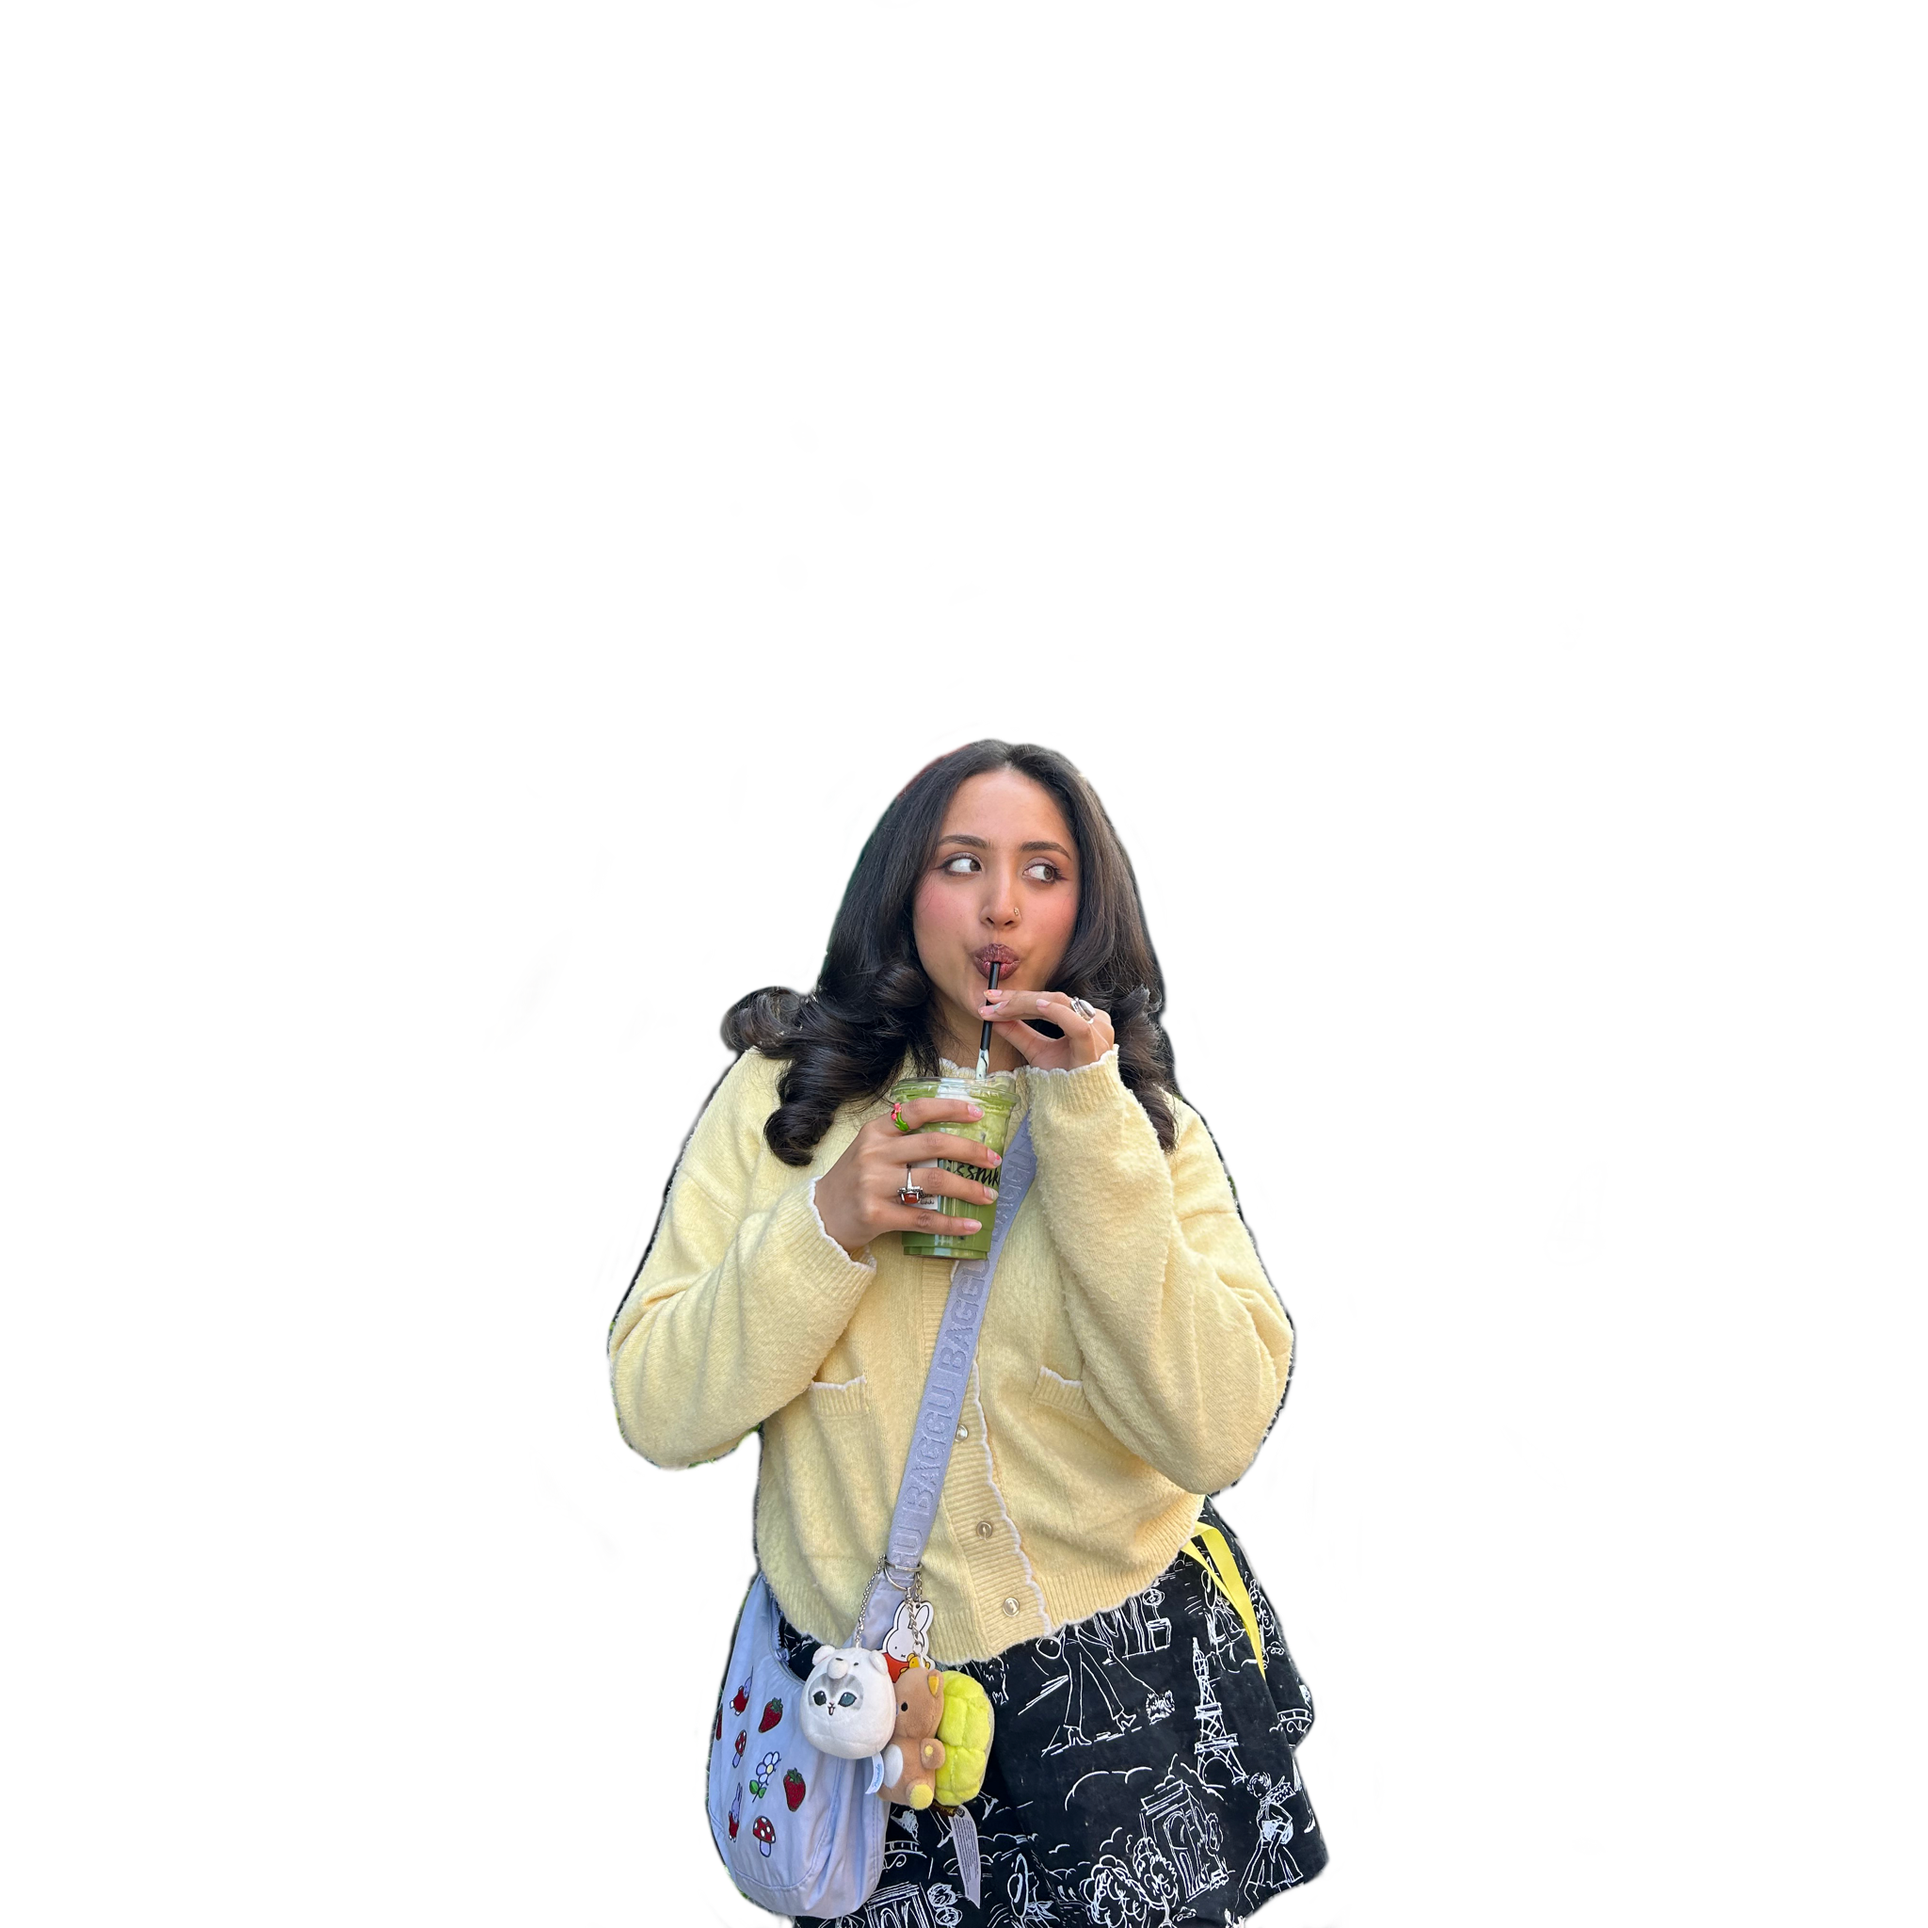
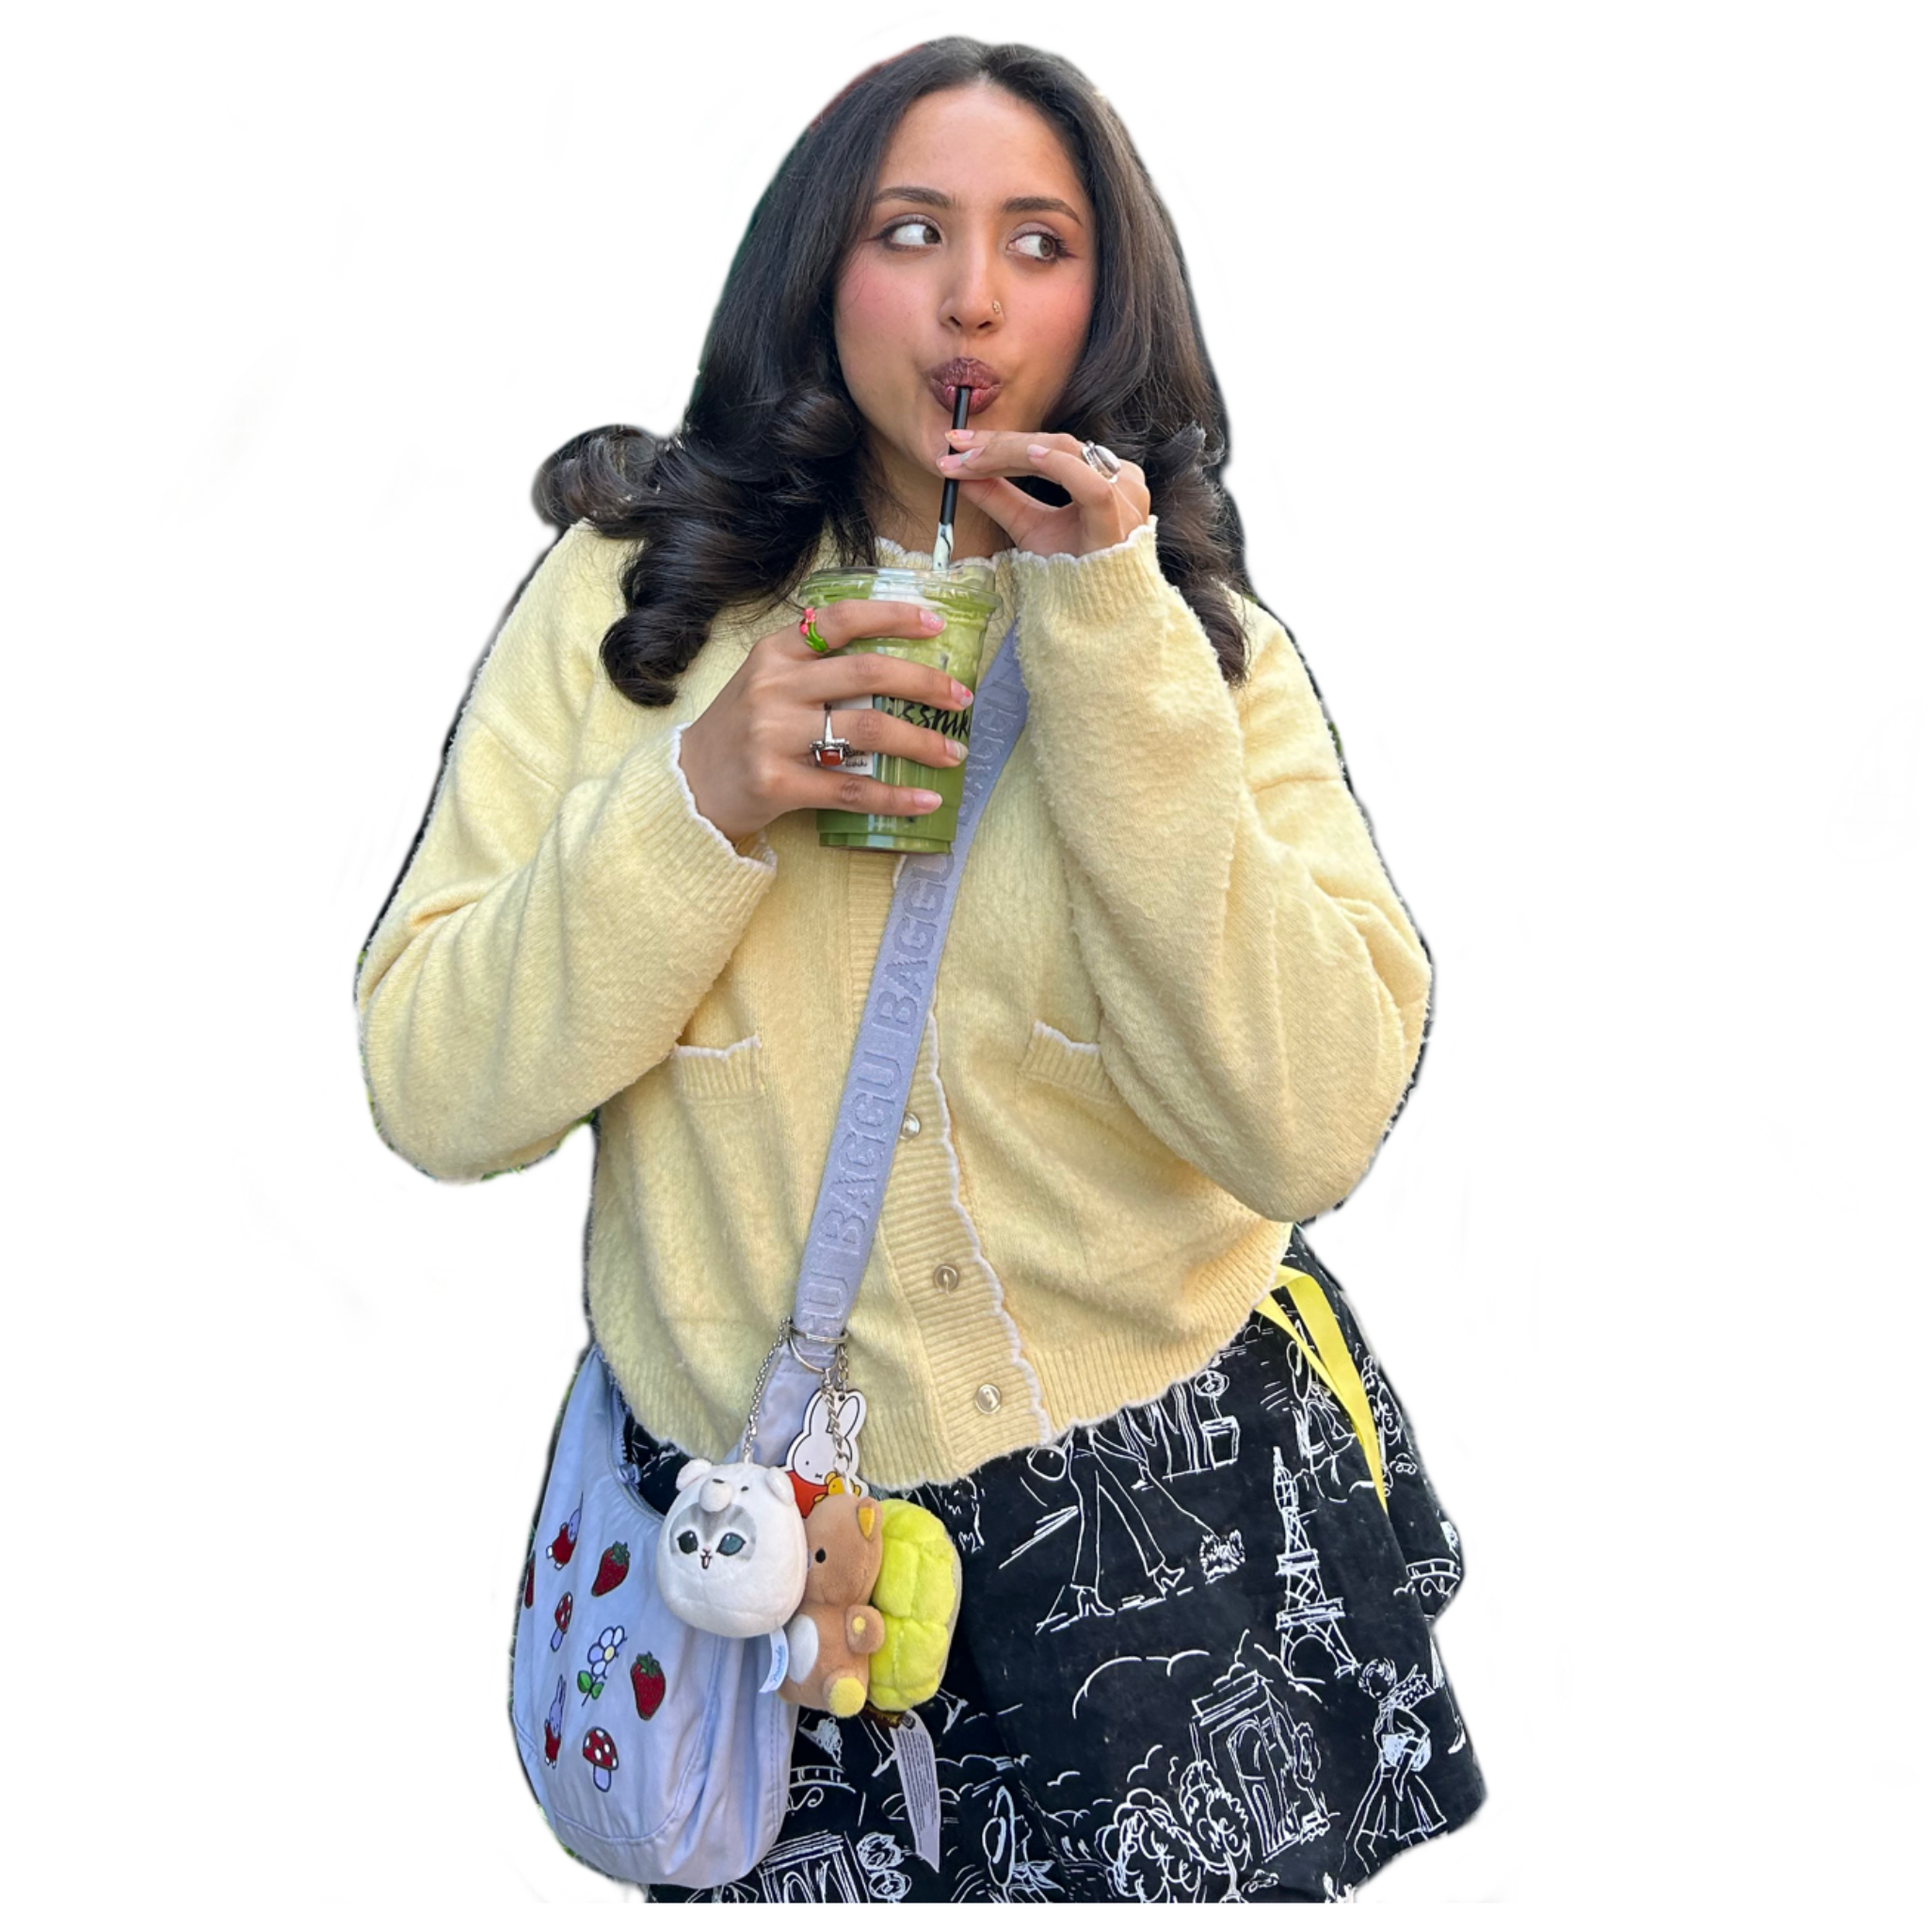
refactor: update matcha image display and hover effect on main page

diff --git a/app/house/house_landing.jsx b/app/house/house_landing.jsx
@@ -1,4 +1,7 @@
+'use client';
+
 import Link from 'next/link';
+import { useState } from 'react';
 import './house_landing.css';
 
 const rooms = [
@@ -10,6 +13,8 @@ const rooms = [
 ];
 
 export default function HousePage() {
+  const [showPout, setShowPout] = useState(false);
+
   return (
     <main className="house-landing">
       <nav aria-label="Portfolio sections">
@@ -19,11 +24,18 @@ export default function HousePage() {
           </Link>
         ))}
       </nav>
-      <img
-        className="smile_with_matcha"
-        src="/images/Smiling_With_Matcha.png"
-        alt="Smiling with matcha"
-      />
+      <div
+        className="matcha-swap"
+        onMouseEnter={() => setShowPout(true)}
+        onMouseLeave={() => setShowPout(false)}
+        aria-label="Portrait that changes when hovered"
+      >
+        <img
+          className="matcha-image"
+          src={showPout ? '/images/pout_with_matcha.png' : '/images/smiling_with_matcha.png'}
+          alt={showPout ? 'Pout with matcha' : 'Smiling with matcha'}
+        />
+      </div>
     </main>
   );
 }

diff --git a/app/house/house_landing.css b/app/house/house_landing.css
@@ -11,10 +11,16 @@
 	background-size: cover;
 }
 
-.smile_with_matcha{
-    width: 70rem;
-    height: auto;
-    transform: translateX(-8rem);
-    align-self: flex-end;
-  margin-bottom: -2rem;
+.matcha-swap {
+	position: relative;
+	width: 50rem;
+	transform: translateX(-8rem);
+	align-self: flex-end;
+	margin-bottom:-3rem;
+}
+
+.matcha-image {
+	display: block;
+	width: 100%;
+	height: auto;
 }
